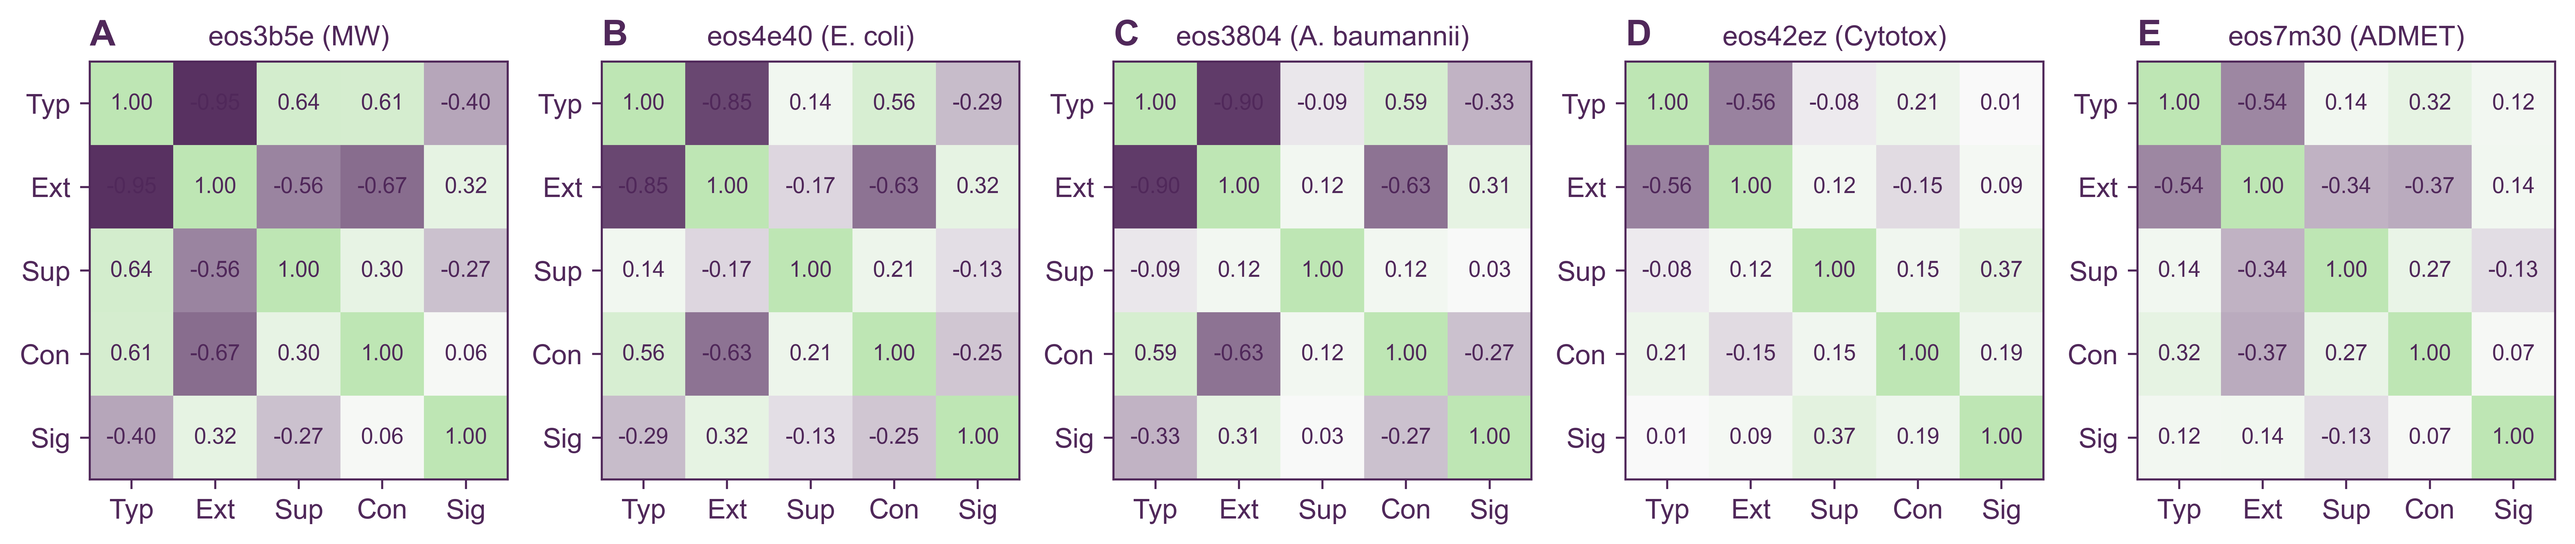
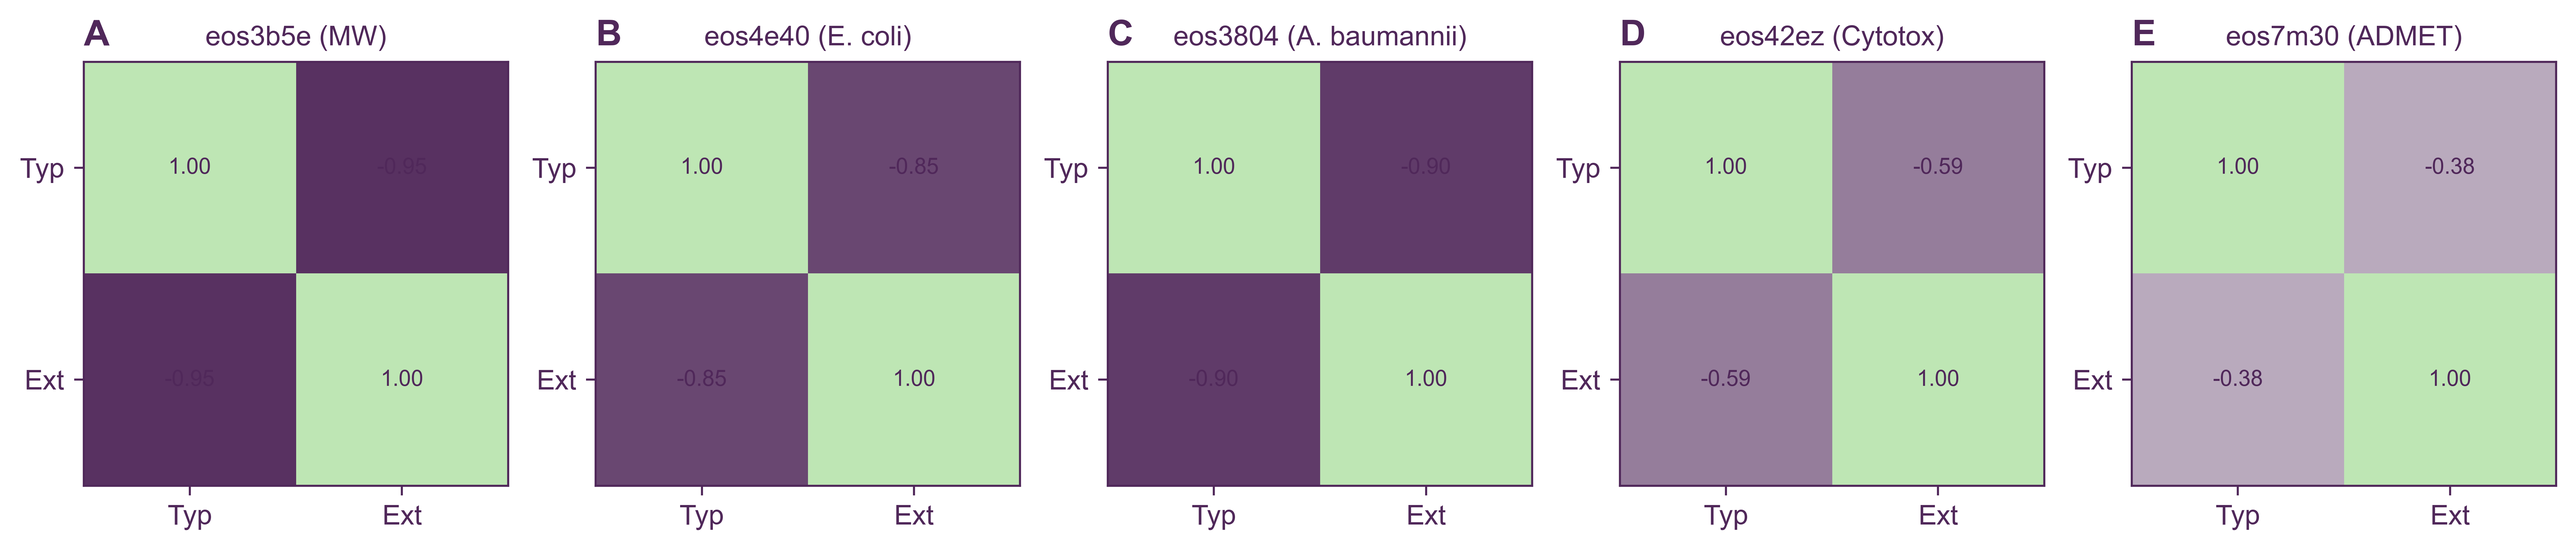
Regenerate the example outputs and figures; status with measured numbers
Refit and re-ran the five example models with the current reference and
training scores (every run ok), regenerated the four figures (the stale
format-1 calibration plot is deleted) and replaced the status numbers with
measured ones: KS to uniform <= 0.040, match/scaffold shares per query set,
typicality-extremity correlations, fit/run cost. run_all_scores.sh also clears
the reference details file. Document the ruff target-version choice.

diff --git a/docs/status.md b/docs/status.md
@@ -4,7 +4,7 @@
 
 ## Example results
 
-The example models and query sets are those of `scripts/run_all_scores.sh`: it fits every reference score for five Ersilia models (the `emh_paper` fit sets in `data/fit_examples/`) and scores 1,000 molecules from each of five query sets (`data/run_examples/`). The figures in `figures/` are regenerated from its output with `scripts/figures/*.py` (in an environment with stylia). They have not been regenerated since the reference scores changed (see Open items), so none is embedded here.
+The example models and query sets are those of `scripts/run_all_scores.sh`: it fits every reference score for five Ersilia models (the `emh_paper` fit sets in `data/fit_examples/`) and scores 1,000 molecules from each of five query sets (`data/run_examples/`). The figures in `figures/` are regenerated from its output with `scripts/figures/*.py` (in an environment with stylia).
 
 | model | endpoint | outputs | kept after selection |
 |---|---|---|---|
@@ -14,17 +14,30 @@ The example models and query sets are those of `scripts/run_all_scores.sh`: it f
 | eos42ez | cytotoxicity | 3 | 3 |
 | eos7m30 | ADMET panel | 49 | 10 |
 
-The query sets:
-- **Library sample:** 1,000 molecules drawn from the reference library itself.
-- **Drugs:** 43% of them are in the library.
-- **Natural products, synthetic:** none are in the library.
-- **Inert:** 0.4% are in the library.
+The query sets, and how many of their molecules the reference library holds (`ref_match` / `ref_scaffold`, the same for every model):
 
-**Calibration.** Library molecules score roughly Uniform(0, 1) on typicality and extremity, and the `reference_<score>` anchors are 0.500 by construction (mid-rank calibration). The tests check this on a small library; the example outputs have not been re-measured since the per-column percentiles.
+| query set | `ref_match` = 1 | `ref_scaffold` = 1 | no scaffold (NA) |
+|---|---|---|---|
+| Library sample | 100% | 100% | 0.4% |
+| Drugs | 71% | 92% | 10% |
+| Inert | 53% | 92% | 0.4% |
+| Synthetic | 0% | 21% | 5% |
+| Natural products | 0% | 7% | 34% |
+
+`ref_match` ignores stereochemistry, charge and tautomers, so it finds more drugs and inert molecules than an exact SMILES comparison (43% of the drugs, 0.4% of the inert set).
+
+**Calibration.** Library molecules score roughly Uniform(0, 1) on typicality and extremity, and the anchors are 0.500 by construction (mid-rank calibration). On the library sample the KS distance to uniform is at most 0.040 for every model and both scores, against a 95% critical value of 0.043 for n = 1,000.
+
+![Reference calibration](figures/reference_calibration.png)
+![Score distributions](figures/score_distributions.png)
 
 **Typicality steps.** Typicality's percentile moves in steps for the one-output models because a column's density has only about 130 distinct values across 1.35M molecules (int8 density levels). Ties cannot spread out into a uniform distribution. Mid-rank centres them rather than biasing them upward.
 
-**Redundancy.** For single-output models typicality and extremity are nearly redundant (Spearman ρ from −0.85 to −0.95 on the example models, measured before the per-column percentiles): a value far from the centre is almost always a rare value.
+**Redundancy.** For the single-output models typicality and extremity are nearly redundant (Spearman ρ −0.85 to −0.95: a value far from the centre is almost always a rare value); the panels of 3 and 49 outputs are less so (−0.59 and −0.38).
+
+![Score correlations](figures/score_correlations.png)
+
+**Cost.** On eos4e40, `fit` with reference and training sets takes about 11 s and `run` on 1,000 molecules about 9 s, with the RDKit descriptors spread over the cores (`-j`). The artifacts are 36–188 MB per model (the largest, the 3-output cytotoxicity model with its training sets).
 
 ## Decisions to review
 
@@ -61,7 +74,7 @@ set's own typical value and often saturates. That is honest — the training set
 thousand molecules against a 1.35M-molecule library, so almost any query is
 farther from them than their molecules are from each other — but it leaves
 the calibrated score with little resolution once everything is "far", which
-is why `trn_tanimoto_raw` is reported alongside it. The figure predates the physchem and match scores and shows the old column names.
+is why `trn_tanimoto_raw` is reported alongside it.
 Drugs are the closest set for eos4e40 (E. coli), whose training data is a
 drug-like screen; the synthetic set is the farthest for every model.
 
@@ -75,7 +88,6 @@ drug-like screen; the synthetic set is the farthest for every model.
 
 Reference modality:
 
-- [ ] Regenerate the example outputs and figures (`scripts/run_all_scores.sh`, `scripts/figures/*.py`): they predate the per-column percentiles and the removal of support, consistency and signal.
 - [ ] Build the match keys for the real library (`eosquality build`) and upload the library folder.
 - [ ] Raise the feature-selection cap from 10 to around 30 columns.
 - [ ] Decide on typicality/extremity redundancy (see Decisions to review).

diff --git a/CLAUDE.md b/CLAUDE.md
@@ -121,7 +121,7 @@ See `docs/diagram.md`: `<artifacts>/manifest.json`, `reference_mode/`, `training
 
 ## Code Conventions
 
-- **Formatting and linting** use ruff only (`ruff format`, `ruff check`); black is not used.
+- **Formatting and linting** use ruff only (`ruff format`, `ruff check`); black is not used. Ruff's `target-version` follows `requires-python` (py311), not the org template's py310.
 - **Dependencies** are pinned to exact versions in `pyproject.toml`; bump them deliberately.
 - **CLI** is built with Click (`cli/`); commands raise `CliError` for user-facing errors, and `run_command` turns them into `✖ error:` lines and exit status 1. The library fetch command is `setup`, matching the other Ersilia tools.
 - **Output:** user-facing status goes through `utils/console/` (steps, panels), never through `logger.info`. `logger` is for diagnostics, which go to the log file and appear on screen only with `-v`. Library code narrates fit/run with `console.section` + `console.Steps`, which are no-ops while the console is off.
